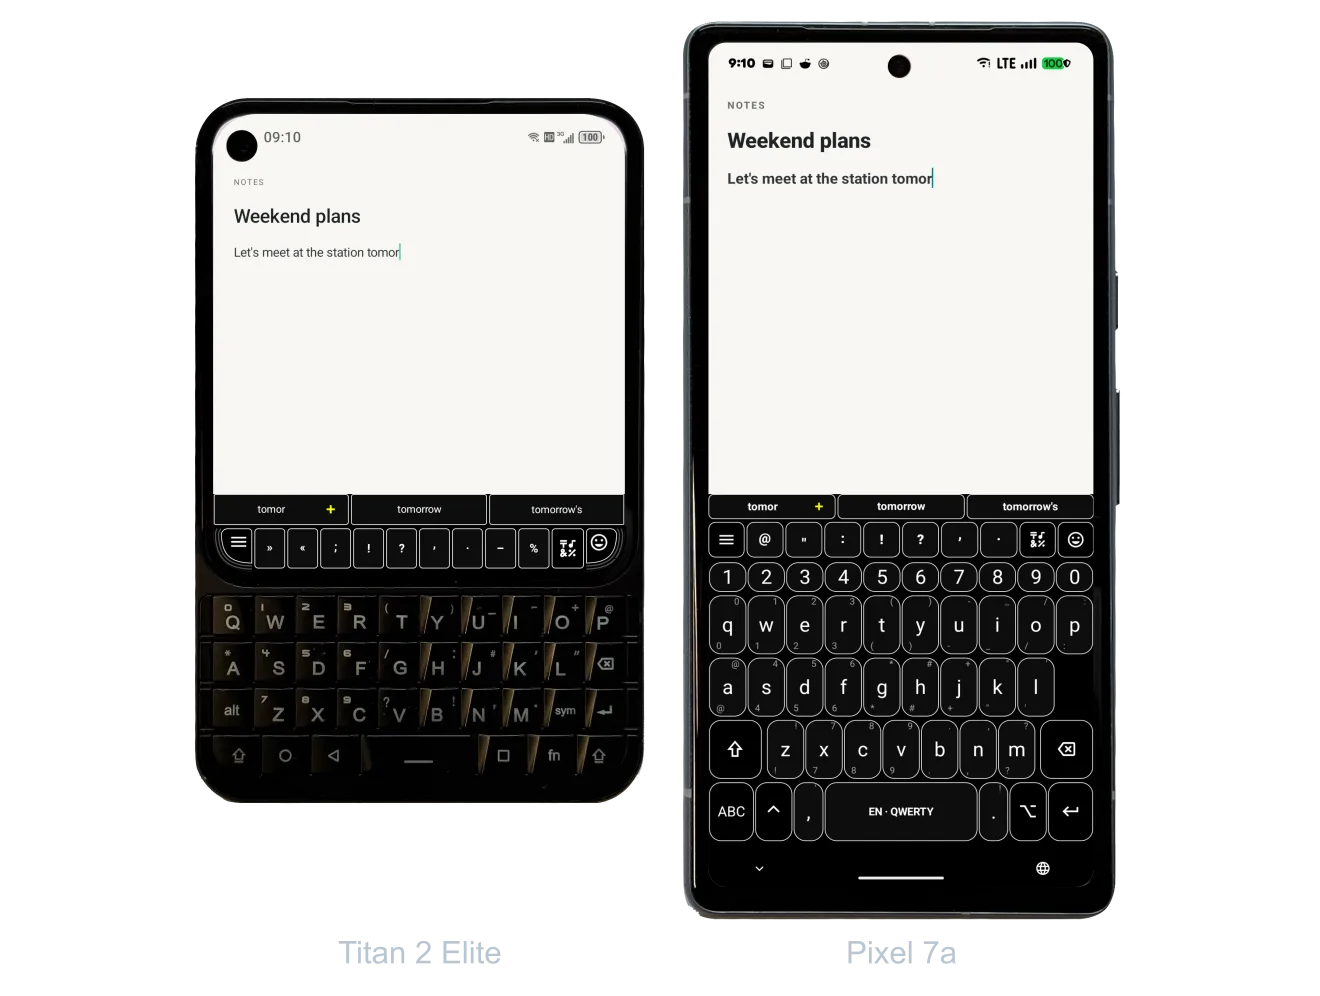
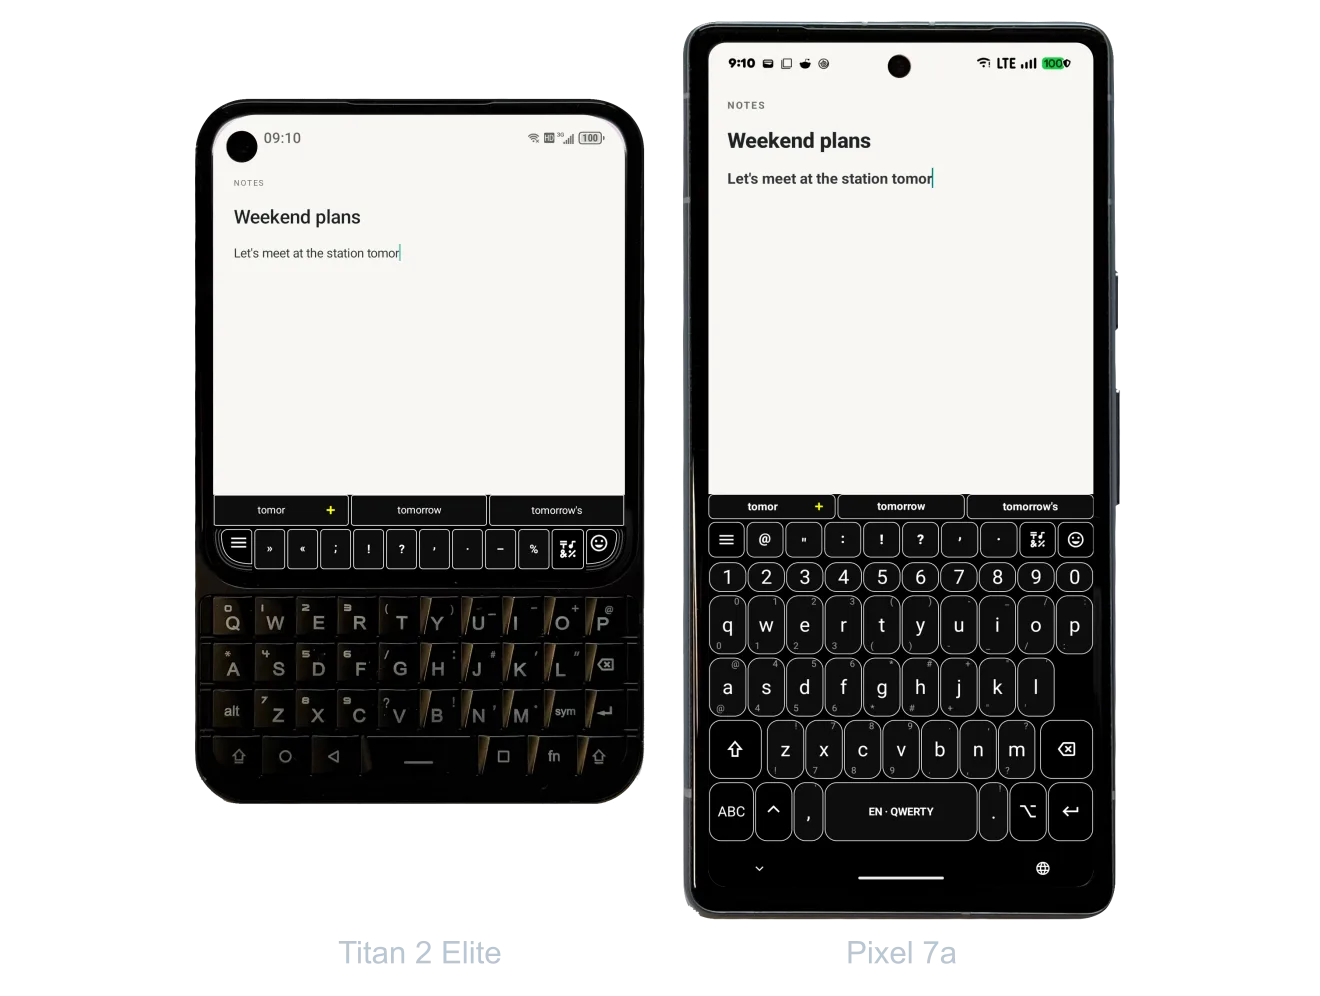
fix: refresh T2E showcase with verified LED contours
Use the isolated T2E captures with short corner rails and an opaque
contrast background. Rebuild Stable/Nightly assets and cache versions.

diff --git a/index.html b/index.html
@@ -563,15 +563,15 @@
             </div>
             <div class="grid" data-reveal-group>
               <figure class="feature" data-reveal>
-                <button class="shot" type="button"><img src="/plektra/assets/shots/stable/02-keyboard-bar.webp?v=5afc2421e320" data-shot="02-keyboard-bar" width="1320" height="996" loading="lazy" alt="Titan 2 Elite with the keyboard bar showing suggestions and menu buttons" data-shot-version="5afc2421e320"></button>
+                <button class="shot" type="button"><img src="/plektra/assets/shots/stable/02-keyboard-bar.webp?v=9ee4adcac471" data-shot="02-keyboard-bar" width="1320" height="996" loading="lazy" alt="Titan 2 Elite with the keyboard bar showing suggestions and menu buttons" data-shot-version="9ee4adcac471"></button>
                 <figcaption><h4>Modular toolbar configuration</h4><p>Configure suggestions, character variations and menu buttons independently.</p></figcaption>
               </figure>
               <figure class="feature" data-reveal>
-                <button class="shot" type="button"><img src="/plektra/assets/shots/stable/03-bar-configurations.webp?v=da94027ac4b0" data-shot="03-bar-configurations" width="1320" height="996" loading="lazy" alt="Four bar configurations: full bar, suggestions, LED strip and hidden" data-shot-version="da94027ac4b0"></button>
+                <button class="shot" type="button"><img src="/plektra/assets/shots/stable/03-bar-configurations.webp?v=573ceadc011e" data-shot="03-bar-configurations" width="1320" height="996" loading="lazy" alt="Four bar configurations: full bar, suggestions, LED strip and hidden" data-shot-version="573ceadc011e"></button>
                 <figcaption><h4>Adjustable interface density</h4><p>Choose a full bar, compact controls, a modifier LED strip or a hidden bar.</p></figcaption>
               </figure>
               <figure class="feature" data-reveal>
-                <button class="shot" type="button"><img src="/plektra/assets/shots/stable/04-slim-profile.webp?v=dc7537a576d0" data-shot="04-slim-profile" width="1320" height="996" loading="lazy" alt="Normal and Slim keyboard bar profiles compared" data-shot-version="dc7537a576d0"></button>
+                <button class="shot" type="button"><img src="/plektra/assets/shots/stable/04-slim-profile.webp?v=b1a24f50c4c0" data-shot="04-slim-profile" width="1320" height="996" loading="lazy" alt="Normal and Slim keyboard bar profiles compared" data-shot-version="b1a24f50c4c0"></button>
                 <figcaption><h4>Dual profiles: Normal and Slim</h4><p>Configure Normal and Slim independently, then switch between the two profiles.</p></figcaption>
               </figure>
               <figure class="feature" data-reveal>
@@ -645,7 +645,7 @@
             </div>
             <div class="grid" data-reveal-group>
               <figure class="feature" data-reveal>
-                <button class="shot" type="button"><img src="/plektra/assets/shots/stable/15-hardware-themes.webp?v=2da25199390c" data-shot="15-hardware-themes" width="1320" height="996" loading="lazy" alt="Nine keyboard bar themes, from Plektra Dark to Transparent Dark" data-shot-version="2da25199390c"></button>
+                <button class="shot" type="button"><img src="/plektra/assets/shots/stable/15-hardware-themes.webp?v=73864d5167af" data-shot="15-hardware-themes" width="1320" height="996" loading="lazy" alt="Nine keyboard bar themes, from Plektra Dark to Transparent Dark" data-shot-version="73864d5167af"></button>
                 <figcaption><h4>Nine built-in interface themes</h4><p>Choose from nine built-in keyboard bar themes.</p></figcaption>
               </figure>
               <figure class="feature" data-reveal>
@@ -657,7 +657,7 @@
                 <figcaption><h4>Native QWERTY, AZERTY, and QWERTZ support</h4><p>Select QWERTY, AZERTY or QWERTZ, including German umlauts.</p></figcaption>
               </figure>
               <figure class="feature" data-reveal>
-                <button class="shot" type="button"><img src="/plektra/assets/shots/stable/18-high-contrast.webp?v=d9c594dfec5b" data-shot="18-high-contrast" width="1320" height="996" loading="lazy" alt="High-contrast theme on a Titan 2 Elite and a Pixel 7a" data-shot-version="d9c594dfec5b"></button>
+                <button class="shot" type="button"><img src="/plektra/assets/shots/stable/18-high-contrast.webp?v=b42f2f1bd5f9" data-shot="18-high-contrast" width="1320" height="996" loading="lazy" alt="High-contrast theme on a Titan 2 Elite and a Pixel 7a" data-shot-version="b42f2f1bd5f9"></button>
                 <figcaption><h4>High-contrast mode for improved visibility</h4><p>Use a high-contrast theme with clear key outlines and distinct modifier indicators.</p></figcaption>
               </figure>
             </div>
